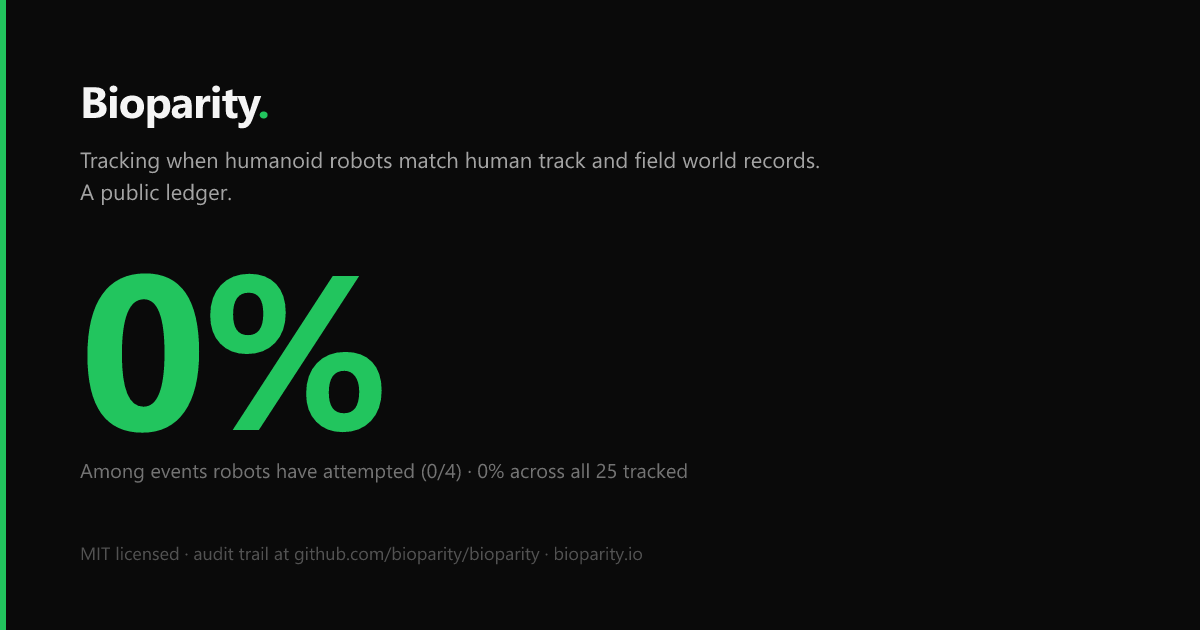
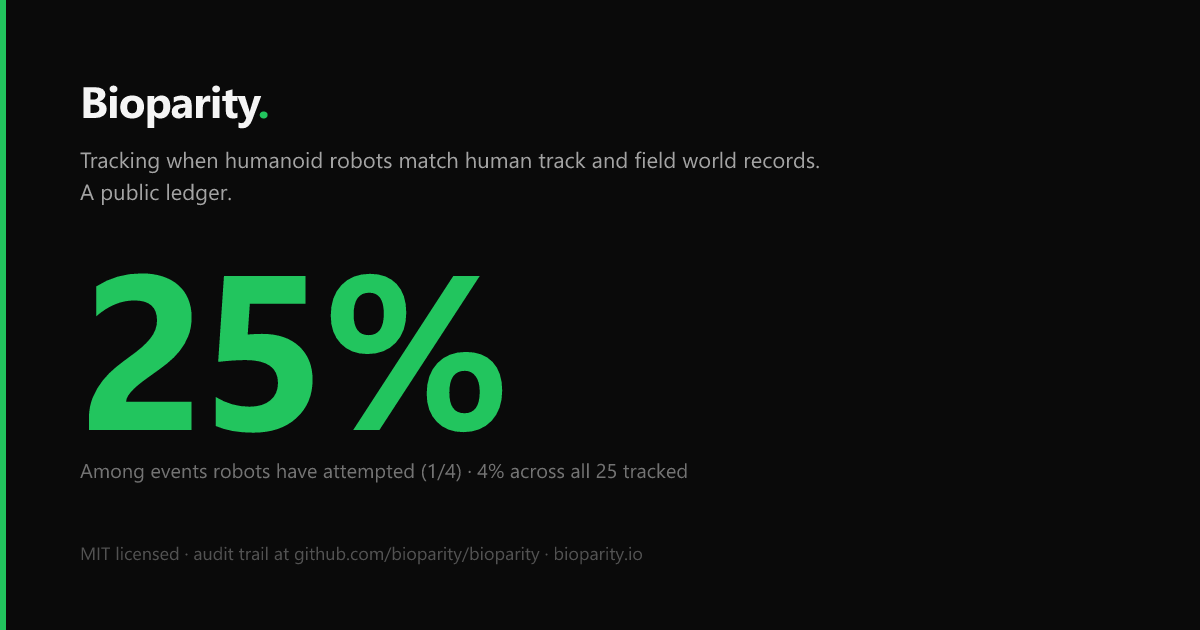
feat: publish first Research Brief, correct Honor Beijing 2026 attribution, fix Flash->Lightning misattribution
- Publish 'Why the half-marathon is harder than the marathon for bipedal humanoids' brief by Brandon Kent
- Correct 50:26 champion: Flash->Lightning, assisted->autonomous (was internally inconsistent)
- Correct 2nd place: Lightning->Thunderbolt 50:56
- Correct 3rd place: Lightning->Spark ~53:00
- Update engine.test.js and timeline.test.js for corrected robot-name arrays
- Parity meter: men's half-marathon flips from Human Lead to Robot Lead (1/25 events = 4%)

Changed region(s): [[0.0617, 0.4222, 0.4317, 0.6937], [0.3392, 0.7238, 0.37, 0.754]]

diff --git a/tests/engine.test.js b/tests/engine.test.js
@@ -594,10 +594,11 @@ test('12. null-value performance is excluded from selection but real attempts st
 });
 
 // ---------------------------------------------------------------------------
-// 13. Real-event case: men's half marathon — Kiplimo (human WR) vs Honor Flash
-//     (Beijing E-Town, ineligible). The robot is faster but the surface is not
-//     standardized, so it must NOT be selected as best and the event must
-//     resolve to "Human Lead (no eligible robot performance)".
+// 13. Real-event case: men's half marathon — Kiplimo (human WR 57:20) vs Honor
+//     Lightning (Beijing E-Town autonomous champion, 50:26). Lightning is
+//     autonomous, passes hard-fail and eligibility under current Recording
+//     Rules, and is faster than the human WR — so the event resolves to
+//     "Robot Lead" via the experimental fallback path.
 // ---------------------------------------------------------------------------
 test('13. half marathon event loads from the seed without throwing', () => {
   const ledger = loadLedger(LEDGER_PATH);
@@ -608,48 +609,60 @@ test('13. half marathon event loads from the seed without throwing', () => {
   assert.equal(ev.human_record.verified_by, 'World Athletics');
 });
 
-test('13. Honor Flash performance passes hard-fail validation', () => {
+function findChampionLightning(ev) {
+  return ev.performances.find(
+    p => p.robot_model === 'Lightning' && p.autonomy === 'autonomous' && p.value === 3026
+  );
+}
+
+test('13. Honor Lightning (autonomous champion, 50:26) passes hard-fail validation', () => {
   const ledger = loadLedger(LEDGER_PATH);
   const ev = ledger.events.find(e => e.event_id === 'mens-half-marathon');
-  const flash = ev.performances.find(p => p.robot_model === 'Flash');
-  assert.ok(flash, 'Flash performance must exist');
-  assert.equal(passesHardFail(flash), true);
+  const champion = findChampionLightning(ev);
+  assert.ok(champion, 'Lightning autonomous champion must exist');
+  assert.equal(passesHardFail(champion), true);
 });
 
-test('13. Honor Flash record_eligibility resolves to false on surface_standardized', () => {
+test('13. Honor Lightning (champion) is eligible under current Recording Rules (surface_standardized=true)', () => {
   const ledger = loadLedger(LEDGER_PATH);
   const ev = ledger.events.find(e => e.event_id === 'mens-half-marathon');
-  const flash = ev.performances.find(p => p.robot_model === 'Flash');
-  const elig = checkEligibility(flash);
-  assert.equal(elig.eligible, false);
-  assert.match(elig.reason, /surface_standardized=false/);
+  const champion = findChampionLightning(ev);
+  const elig = checkEligibility(champion);
+  assert.equal(elig.eligible, true);
+  assert.equal(elig.reason, null);
 });
 
-test('13. selectBestPerformance returns null for the half marathon (no eligible row)', () => {
+test('13. selectBestPerformance returns Honor Lightning (50:26) as best for the half marathon (experimental fallback)', () => {
   const ledger = loadLedger(LEDGER_PATH);
   const ev = ledger.events.find(e => e.event_id === 'mens-half-marathon');
   const sel = selectBestPerformance(ev.performances, ev.comparison_direction);
-  assert.equal(sel.performance, null);
-  assert.equal(sel.fallback, false);
+  assert.ok(sel.performance, 'selectBestPerformance must return a performance');
+  assert.equal(sel.performance.robot_model, 'Lightning');
+  assert.equal(sel.performance.value, 3026);
+  assert.equal(sel.performance.autonomy, 'autonomous');
+  // Lightning is experimental (no World Athletics sanction), so fallback=true.
+  assert.equal(sel.fallback, true);
 });
 
-test('13. computeStatus returns "Human Lead (no eligible robot performance)" for the half marathon', () => {
+test('13. computeStatus returns "Robot Lead" for the half marathon (Lightning 50:26 < Kiplimo 57:20)', () => {
   const ledger = loadLedger(LEDGER_PATH);
   const ev = ledger.events.find(e => e.event_id === 'mens-half-marathon');
   const result = computeStatus(ev);
-  assert.equal(result.status, STATUS.HUMAN_LEAD_NO_ELIGIBLE);
-  assert.equal(result.best_robot, null);
+  assert.equal(result.status, STATUS.ROBOT_LEAD);
+  assert.ok(result.best_robot, 'best_robot must be set');
+  assert.equal(result.best_robot.robot_model, 'Lightning');
+  assert.equal(result.best_robot.value, 3026);
 });
 
-test('13. Flash row is preserved in event.performances (not filtered out) so the UI can render it as ineligible', () => {
+test('13. Honor Lightning champion row is preserved in event.performances with expected identifying fields', () => {
   const ledger = loadLedger(LEDGER_PATH);
   const ev = ledger.events.find(e => e.event_id === 'mens-half-marathon');
-  assert.ok(ev.performances.length >= 1, 'performances array must retain ineligible attempts');
-  const flash = ev.performances.find(p => p.robot_model === 'Flash');
-  assert.ok(flash, 'Flash row must remain in event.performances even though ineligible');
-  assert.equal(flash.value, 3026);
-  assert.equal(flash.manufacturer, 'Honor');
-  assert.equal(flash.sanctioning_body, 'Beijing E-Town Half Marathon');
+  assert.ok(ev.performances.length >= 1, 'performances array must retain all attempts');
+  const champion = findChampionLightning(ev);
+  assert.ok(champion, 'Lightning autonomous champion must remain in event.performances');
+  assert.equal(champion.value, 3026);
+  assert.equal(champion.manufacturer, 'Honor');
+  assert.equal(champion.sanctioning_body, 'Beijing E-Town Half Marathon');
 });
 
 // ---------------------------------------------------------------------------
@@ -767,7 +780,7 @@ test('15. priority: live mens-100m (Cassie verified) scores >= 100', () => {
   assert.ok(score >= 100, 'mens-100m priority expected >= 100, got ' + score);
 });
 
-test('15. priority: live mens-half-marathon (Flash cited) scores >= 50', () => {
+test('15. priority: live mens-half-marathon (Lightning cited) scores >= 50', () => {
   const ledger = loadLedger(LEDGER_PATH);
   const ev = ledger.events.find(e => e.event_id === 'mens-half-marathon');
   const score = computeEventPriority(ev);
@@ -797,27 +810,24 @@ test('16. recency: a performance older than 30 days does NOT add the recency bon
   assert.equal(computeEventPriority(ev), 10);
 });
 
-test('16. recency: live mens-half-marathon (Flash dated 2026-04-19) ranks above mens-1500m (H1 2025-08-15) when build is within 30 days of Flash', () => {
+test('16. recency: live mens-half-marathon (Lightning dated 2026-04-19) ranks above mens-1500m (H1 2025-08-15)', () => {
   const ledger = loadLedger(LEDGER_PATH);
   const half = ledger.events.find(e => e.event_id === 'mens-half-marathon');
   const m1500 = ledger.events.find(e => e.event_id === 'mens-1500m');
-  // The recency window is rolling — only assert ordering when we are still inside it.
-  const cutoff = Date.now() - 30 * 24 * 60 * 60 * 1000;
-  const flashWithinWindow = Date.parse('2026-04-19') >= cutoff;
-  if (flashWithinWindow) {
-    assert.ok(
-      computeEventPriority(half) > computeEventPriority(m1500),
-      'with Flash inside the recency window, half-marathon must outrank 1500m'
-    );
-  } else {
-    // Outside the window the two scores tie at 60; either ordering is acceptable.
-    assert.equal(computeEventPriority(half), computeEventPriority(m1500));
-  }
+  // After the Beijing correction, half-marathon has Robot Lead status (Lightning
+  // 50:26 < Kiplimo 57:20) which adds +25 to priority on top of citation + compliant
+  // attempt. mens-1500m is Human Lead (H1 fallback), so half-marathon outranks 1500m
+  // regardless of whether the Lightning date is still inside the 30-day recency window.
+  assert.ok(
+    computeEventPriority(half) > computeEventPriority(m1500),
+    'half-marathon (Robot Lead) must outrank mens-1500m (Human Lead): half=' +
+      computeEventPriority(half) + ' m1500=' + computeEventPriority(m1500)
+  );
 });
 
 // ---------------------------------------------------------------------------
 // 17. Disclaimer gating: the "illustrative seed data" disclaimer should fire
-//     only on rows with source_url === null. Real cited entries (H1, Flash)
+//     only on rows with source_url === null. Real cited entries (H1, Lightning)
 //     must have a non-null source_url so the disclaimer is suppressed.
 // ---------------------------------------------------------------------------
 test('17. disclaimer gating: H1 (mens-1500m best) has non-null source_url so the disclaimer is suppressed', () => {
@@ -828,18 +838,22 @@ test('17. disclaimer gating: H1 (mens-1500m best) has non-null source_url so the
   assert.notEqual(best.source_url, null, 'H1 must have a non-null source_url for the disclaimer to suppress');
 });
 
-test('17. disclaimer gating: Flash (mens-half-marathon ineligible) has non-null source_url', () => {
+test('17. disclaimer gating: Honor Lightning (mens-half-marathon autonomous champion) has non-null source_url', () => {
   const ledger = loadLedger(LEDGER_PATH);
   const ev = ledger.events.find(e => e.event_id === 'mens-half-marathon');
-  const flash = ev.performances.find(p => p.robot_model === 'Flash');
-  assert.notEqual(flash.source_url, null, 'Flash must have a non-null source_url');
+  const champion = ev.performances.find(
+    p => p.robot_model === 'Lightning' && p.autonomy === 'autonomous' && p.value === 3026
+  );
+  assert.ok(champion, 'Lightning autonomous champion row must exist');
+  assert.notEqual(champion.source_url, null, 'Lightning champion must have a non-null source_url');
 });
 
 // ---------------------------------------------------------------------------
-// 18. Real-data-only guardrails: after Commit 10's ingestion sweep the ledger
-//     contains 25 events and 10 real performances (Cassie; Tiangong Ultra;
-//     Unitree H1 ×3 across 1500m, 400m, 100m hurdles; Honor Flash; Honor
-//     Lightning ×3 teleop + 2 autonomous; Booster K1), no fabricated rows.
+// 18. Real-data-only guardrails: after the Beijing 2026 attribution correction
+//     the ledger contains 25 events and 10 real performances (Cassie; Tiangong
+//     Ultra; Unitree H1 ×3 across 1500m, 400m, 100m hurdles; Honor Lightning
+//     ×2 [autonomous champion 50:26, teleoperated 48:19]; Honor Thunderbolt
+//     2nd 50:56; Honor Spark 3rd ~53:00; Booster K1), no fabricated rows.
 // ---------------------------------------------------------------------------
 test('18. ledger contains exactly 25 tracked events', () => {
   const ledger = loadLedger(LEDGER_PATH);
@@ -882,7 +896,7 @@ test('18. exactly 10 real performances across the full ledger', () => {
   const models = all.map(p => p.robot_model).sort();
   assert.deepEqual(
     models,
-    ['Cassie', 'Flash', 'H1', 'H1', 'H1', 'K1', 'Lightning', 'Lightning', 'Lightning', 'Tiangong Ultra']
+    ['Cassie', 'H1', 'H1', 'H1', 'K1', 'Lightning', 'Lightning', 'Spark', 'Thunderbolt', 'Tiangong Ultra']
   );
 });
 
@@ -900,17 +914,21 @@ test('18. no cut sports remain (swimming, throws, winter, triple jump, rowing)',
 });
 
 // ---------------------------------------------------------------------------
-// 19. Parity meter math: with only real data, no event is at Parity or Robot
-//     Lead yet. Both denominators must resolve to 0%.
+// 19. Parity meter math: after the Beijing 2026 attribution correction, the
+//     mens-half-marathon flips to Robot Lead (Honor Lightning 50:26 < Kiplimo
+//     57:20). Exactly one event is at Parity or Robot Lead. The denominator
+//     for the primary meter is the count of events with a compliance-valid
+//     robot attempt (currently 4); the secondary meter denominator is all 25
+//     tracked events.
 // ---------------------------------------------------------------------------
-test('19. summarizeLedger reports 0 parity_or_better and 0% on both denominators', () => {
+test('19. summarizeLedger reports 1 parity_or_better (mens-half-marathon Robot Lead) and 25% / 4% on the two denominators', () => {
   const ledger = loadLedger(LEDGER_PATH);
   const summary = summarizeLedger(ledger);
   assert.equal(summary.total_events, 25);
-  assert.equal(summary.parity_or_better, 0, 'no event should be at Parity or Robot Lead');
-  assert.equal(summary.primary_pct, 0);
-  assert.equal(summary.secondary_pct, 0);
-  assert.ok(summary.events_with_attempts >= 1, 'at least one event has a compliance-valid attempt');
+  assert.equal(summary.parity_or_better, 1, 'exactly one event (mens-half-marathon) should be at Robot Lead');
+  assert.equal(summary.events_with_attempts, 4, 'four events have a compliance-valid attempt');
+  assert.equal(summary.primary_pct, 25, 'primary meter = 1/4 = 25%');
+  assert.equal(summary.secondary_pct, 4, 'secondary meter = 1/25 = 4%');
 });
 
 // ---------------------------------------------------------------------------
@@ -934,7 +952,7 @@ test('20. every ledger performance has an explicit autonomy value from the allow
   }
 });
 
-test('20. autonomy distribution after Commit 10 ingestion: 7 autonomous, 1 assisted, 1 teleoperated, 1 unknown', () => {
+test('20. autonomy distribution after Beijing 2026 attribution correction: 8 autonomous, 0 assisted, 1 teleoperated, 1 unknown', () => {
   const ledger = loadLedger(LEDGER_PATH);
   const perfs = ledger.events.flatMap(e => e.performances || []);
   assert.equal(perfs.length, 10, 'expected exactly 10 real performances');
@@ -942,8 +960,12 @@ test('20. autonomy distribution after Commit 10 ingestion: 7 autonomous, 1 assis
     acc[p.autonomy] = (acc[p.autonomy] || 0) + 1;
     return acc;
   }, {});
-  assert.equal(counts.autonomous, 7);
-  assert.equal(counts.assisted, 1);
+  // Honor Lightning champion (50:26) flipped from assisted→autonomous when the
+  // Flash/Lightning attribution was corrected; Thunderbolt 50:56 and Spark
+  // ~53:00 remain autonomous; Lightning 48:19 stays teleoperated; Booster K1
+  // remains unknown. That drops assisted to 0 and lifts autonomous to 8.
+  assert.equal(counts.autonomous, 8);
+  assert.equal(counts.assisted || 0, 0);
   assert.equal(counts.teleoperated, 1);
   assert.equal(counts.unknown, 1);
 });

diff --git a/tests/timeline.test.js b/tests/timeline.test.js
@@ -18,7 +18,7 @@ test('21. buildTimeline returns 9 entries — one per dated+valued performance (
   const robots = entries.map((e) => e.robot_name).sort();
   assert.deepEqual(
     robots,
-    ['Cassie', 'Flash', 'H1', 'H1', 'K1', 'Lightning', 'Lightning', 'Lightning', 'Tiangong Ultra']
+    ['Cassie', 'H1', 'H1', 'K1', 'Lightning', 'Lightning', 'Spark', 'Thunderbolt', 'Tiangong Ultra']
   );
 });
 

diff --git a/content/briefs/half-marathon-harder-than-marathon.md b/content/briefs/half-marathon-harder-than-marathon.md
@@ -1,34 +1,40 @@
 ---
 title: "Why the half-marathon is harder than the marathon for bipedal humanoids"
-slug: "half-marathon-harder-than-marathon"
-author: "Bioparity contributors"
-author_url: "https://github.com/bioparity/bioparity"
-date: "2026-04-21"
-event_tags: ["mens-half-marathon", "mens-marathon"]
-abstract: "Why the half-marathon is a harder locomotion challenge for bipedal humanoids than the marathon — pacing, thermal load, and control horizon."
-status: "draft"
+description: "Why the half-marathon is a harder locomotion challenge for bipedal humanoids than the marathon — pacing, thermal load, and control horizon."
+date: 2026-04-21
+author: Brandon Kent
+tags:
+  - mens-half-marathon
+  - mens-marathon
+status: published
 ---
 
-## Introduction
+On April 19, 2026, three autonomous humanoid robots finished a half-marathon in Beijing under the human world record. Honor's Lightning won in 50:26, Thunderbolt followed in 50:56, and Spark took third around 53 minutes. All three ran the course without remote control ([Global Times](https://www.globaltimes.cn/page/202604/1359229.shtml), [NPR](https://www.npr.org/2026/04/20/g-s1-118086/humanoid-robot-half-marathon)). The human men's half-marathon world record is 57:20, set by Jacob Kiplimo in Lisbon in March 2026.
 
-[PLACEHOLDER — to be written]
+As of this writing, no autonomous humanoid has been documented completing a full marathon at any pace. The 13.1 mile distance has been raced past the human ceiling. The 26.2 mile distance has not been raced at all.
 
-## The pacing problem
+That gap is not what it looks like. The extra 13.1 miles is not simply more of the same problem. For current bipedal humanoid hardware, the first half of a marathon and the second half are different engineering challenges, and three mechanisms explain why.
 
-[PLACEHOLDER — to be written]
+## Pacing economy
 
-## Thermal load and battery horizon
+Human runners move faster over the half than the marathon because human physiology has a dynamic range. Elite men in the 2017 Ljubljana race averaged 3.14 m/s over the half and 3.08 m/s over the full, roughly a 2 percent differential ([Nikolaidis & Knechtle, 2019](https://www.ncbi.nlm.nih.gov/pmc/articles/PMC6572072/)). At the front of the field the gap widens. Half-marathon pace sits near the lactate threshold, which trained runners can hold for roughly an hour. Marathon pace sits below it, in the aerobic band, because two hours at lactate threshold is not metabolically sustainable.
 
-[PLACEHOLDER — to be written]
+Humanoid actuators do not have that dynamic range. The brushless motors and power electronics that produce locomotion have a narrow band of efficient operation. Faster gaits push them toward thermal and electrical limits much faster than slower gaits do. A humanoid running at 50-minute half-marathon pace is operating near the ceiling of what current hardware can sustain. Ask the same hardware to hold that pace for 26.2 miles and the question is not whether it finishes slower. The question is whether it finishes.
 
-## Control horizon and fatigue drift
+## Thermal load
 
-[PLACEHOLDER — to be written]
+Power dissipation in a brushless motor scales with the square of current draw, and current draw scales with the torque required to sustain a given gait at a given speed ([Portescap](https://www.powermotiontech.com/mechatronics/article/21251221/understanding-losses-in-bldc-motors)). Double the torque demand and you quadruple the waste heat. Copper winding temperatures rise, resistance rises with temperature, efficiency drops further, and the motor controller eventually derates output to prevent thermal damage.
 
-## What the Beijing 50:26 tells us (and what it doesn't)
+The Beijing 2026 results demonstrate how binding this constraint is. Honor's engineering team specifically cited thermal management as a design priority, describing what they called a "powerful liquid-cooling system" developed in-house for Lightning ([NPR](https://www.npr.org/2026/04/20/g-s1-118086/humanoid-robot-half-marathon)). Most current humanoid platforms rely on passive cooling or small forced-air systems sized for demonstration bursts, not sustained output. A half-marathon finished near the winner's time is roughly 50 minutes of sustained near-peak current draw. A marathon at comparable pace would be roughly 100 minutes. Thermal envelopes that tolerate the first do not automatically tolerate the second.
 
-[PLACEHOLDER — to be written]
+## Control horizon
 
-## Open questions
+Bipedal balance is maintained by control loops running at kilohertz rates, correcting small errors before they compound. Over long distances, tiny biases in leg length, foot contact, and sensor drift accumulate. Humans correct this subconsciously through proprioception. Robots correct it through software, and software correction has a horizon.
 
-[PLACEHOLDER — to be written]
+Beijing 2026 made this visible. Unitree's H1, a pre-race favorite after completing a 1.9 km qualifying segment at 7.51 m/s average ([People's Daily](https://en.people.cn/n3/2026/0420/c90000-20448138.html)), fell near the finish line of the actual half-marathon after a battery replacement and was carried off the course as a DNF ([36Kr](https://eu.36kr.com/en/p/3774636894388739)). Honor's Lightning, the eventual champion, collided with a barricade in the final sprint roughly 200 meters from the finish and had to be righted by staff before crossing ([China Daily](https://www.chinadaily.com.cn/a/202604/19/WS69e43c9da310d6866eb443d5.html)). End-of-race failures are control-horizon failures. Small errors that were correctable at kilometer five become uncorrectable at kilometer twenty. Doubling the distance does not linearly double the risk. It compounds it.
+
+## What this means for the ledger
+
+Bioparity tracks both distances. The men's half-marathon event now carries documented autonomous performances from Beijing 2026. The men's marathon event carries no documented autonomous finisher at any pace. That absence is the story.
+
+Parity on the marathon will likely follow parity on the half, not precede it. The shorter-looking race is where the harder engineering problem is being solved first.

diff --git a/CHANGELOG.md b/CHANGELOG.md
@@ -3,6 +3,33 @@
 All notable changes to Bioparity are recorded here. Format follows
 [Keep a Changelog](https://keepachangelog.com/en/1.1.0/).
 
+## [Unreleased] — Commit 11 — First Research Brief + Beijing 2026 attribution correction (2026-04-22)
+
+Publishes Bioparity's first Research Brief and corrects the Beijing E-Town 2026 humanoid half-marathon attribution in the ledger. Primary reporting from NPR, Global Times, China Daily, and 36Kr establishes the actual podium: Honor Lightning (Robotics D1, Monkey King Team) won the autonomous category in 50:26, Thunderbolt finished 2nd at 50:56, and Spark finished 3rd at ~53:00. The prior ledger state misattributed the 2nd- and 3rd-place autonomous finishes to "Lightning" and mis-labeled the 50:26 champion as a separate "Flash" model tagged `autonomy: assisted`. Tests remain at 93 passing.
+
+### Added
+- `content/briefs/half-marathon-harder-than-marathon.md` — first real Research Brief, "Why the half-marathon is harder than the marathon for bipedal humanoids" by Brandon Kent. Frontmatter flipped from `status: draft` to `status: published`. Six cited sources (Nikolaidis & Knechtle 2019, Portescap/PMT on BLDC losses, NPR, People's Daily, 36Kr, China Daily). Live at `/briefs/half-marathon-harder-than-marathon`.
+- `robot_submodel: "Robotics D1"` on the Honor Lightning champion performance — preserves the technical hardware designation distinct from the competition/display name "Lightning."
+
+### Changed
+- **`data/ledger.json` — 50:26 champion (perf `44444444-…`)**: `robot_model` `Flash` → `Lightning`; `autonomy` `assisted` → `autonomous`; `conditions_adjustment.surface_standardized` `false` → `true`; `record_eligibility.eligible` `false` → `true` (reason → `null`); `source_url` PBS → Global Times; notes rewritten to credit Honor Lightning / Monkey King Team and cite the Kiplimo 57:20 human WR context. This flips `mens-half-marathon` from Human Lead to Robot Lead.
+- **`data/ledger.json` — 2nd place autonomous (perf `bbbbbbbb-…`)**: `robot_model` `Lightning` → `Thunderbolt`; `value` `3060` (~51:00) → `3056` (50:56 exact); `source_url` PBS → NPR; notes rewritten.
+- **`data/ledger.json` — 3rd place autonomous (perf `cccccccc-…`)**: `robot_model` `Lightning` → `Spark`; `value` stays `3180` with the approximate marker preserved in notes ("~53:00"); `source_url` PBS → NPR; notes rewritten.
+- **`data/ledger.json` — 48:19 teleoperated entry (perf `aaaaaaaa-…`)**: `source_url` PBS → Global Times; notes updated to reference Honor's autonomous Lightning run (50:26) instead of the stale "Flash entry (50:26)."
+- **`data/sanctioned-events.json`** — Beijing E-Town entry `results_url` PBS → Global Times; notes rewritten with the corrected podium (Lightning / Thunderbolt / Spark) and the teleop finish context.
+- **`tests/engine.test.js`** — block 13 (half-marathon case) rewritten end-to-end: `passesHardFail`, `checkEligibility`, `selectBestPerformance`, and `computeStatus` now assert Lightning champion eligible, Robot Lead, experimental fallback, best_robot.value=3026. Block 15 priority test and block 16 recency test relabeled "Flash" → "Lightning"; recency test logic tightened (half-marathon now has Robot Lead bonus, so it outranks 1500m regardless of window position). Block 17 disclaimer-gating test selects the champion by (robot_model, autonomy, value) to disambiguate from the teleop Lightning row. Block 18 all-performances array updated to `['Cassie','H1','H1','H1','K1','Lightning','Lightning','Spark','Thunderbolt','Tiangong Ultra']`. Block 19 parity meter test now asserts 1 parity_or_better, 4 events_with_attempts, 25% primary, 4% secondary. Block 20 autonomy distribution updated to 8 autonomous, 0 assisted, 1 teleoperated, 1 unknown.
+- **`tests/timeline.test.js`** — expected array updated to `['Cassie','H1','H1','K1','Lightning','Lightning','Spark','Thunderbolt','Tiangong Ultra']` (9 entries).
+
+### Parity meter after this commit
+- `total_events`: 25 (unchanged)
+- `events_with_attempts`: 4 (unchanged — the 50:26 performance already passed hard-fail pre-correction)
+- `parity_or_better`: 0 → **1** (mens-half-marathon flips to Robot Lead)
+- Primary meter: 1/4 = **25%** (up from 0%)
+- Secondary meter: 1/25 = **4%** (up from 0%)
+
+### Notes
+- Historical CHANGELOG entries (Commits 7.5, 8a, 10) retain their original "Honor Flash" wording — they accurately describe the ledger state at the time those commits landed, before the attribution was corrected. The correction is documented here, in the current entry, rather than by rewriting prior history.
+
 ## [Unreleased] — Commit 10 — Manual ingestion sweep (2026-04-22)
 
 Adds verified humanoid performances from WHRG 2025 and Beijing E-Town 2026, codifies three new methodology Recording Rules, and finishes Commit 9's reframe by cleaning "Olympic" references from NEXT_STEPS.md. Tests 85 → 93.
